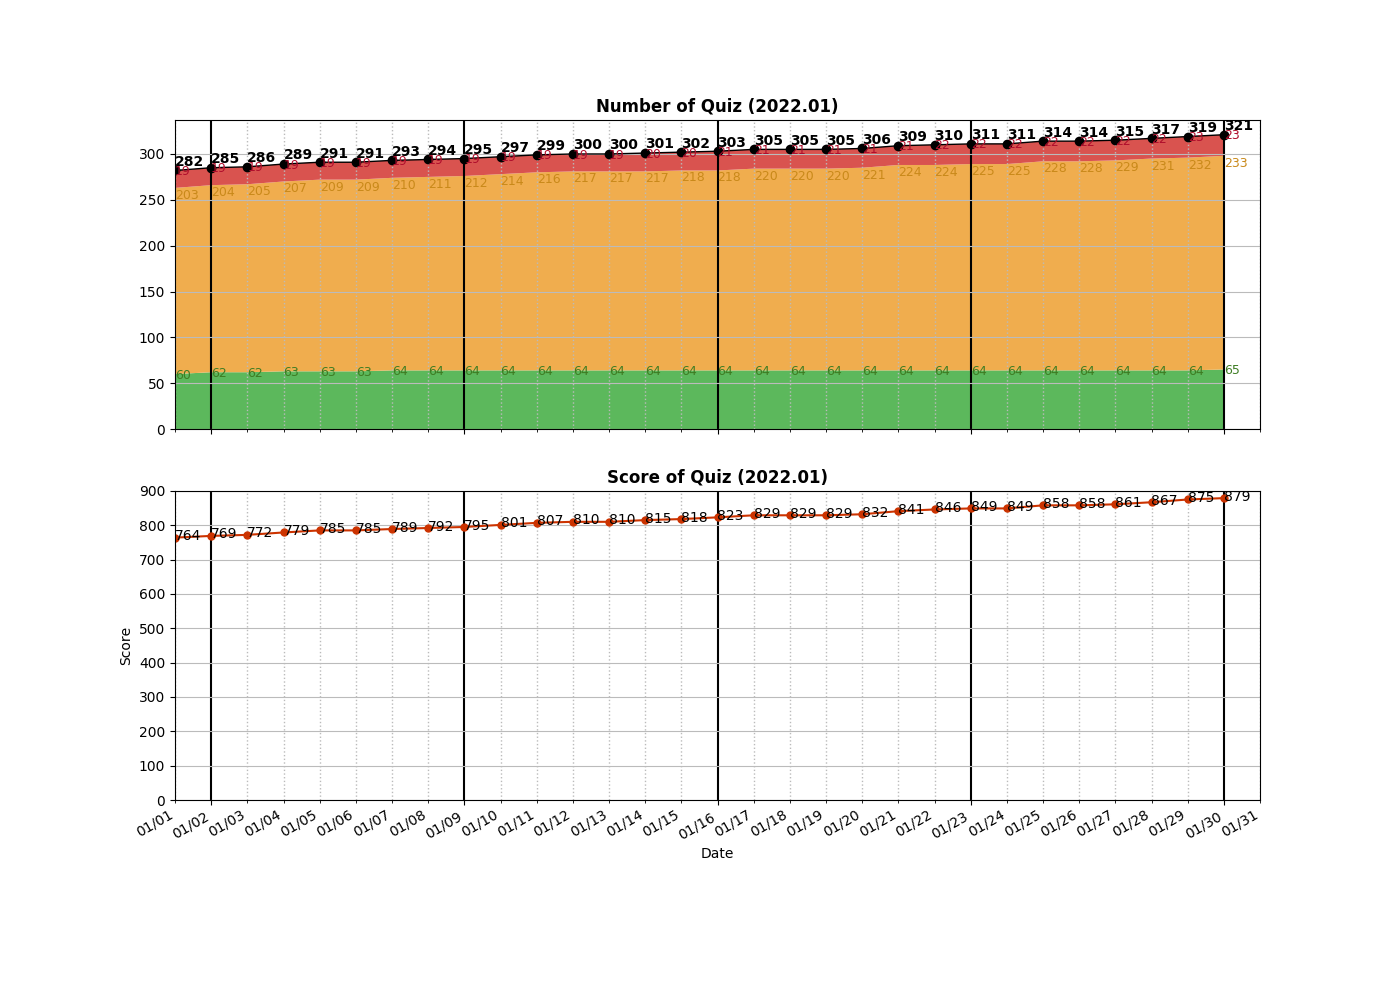
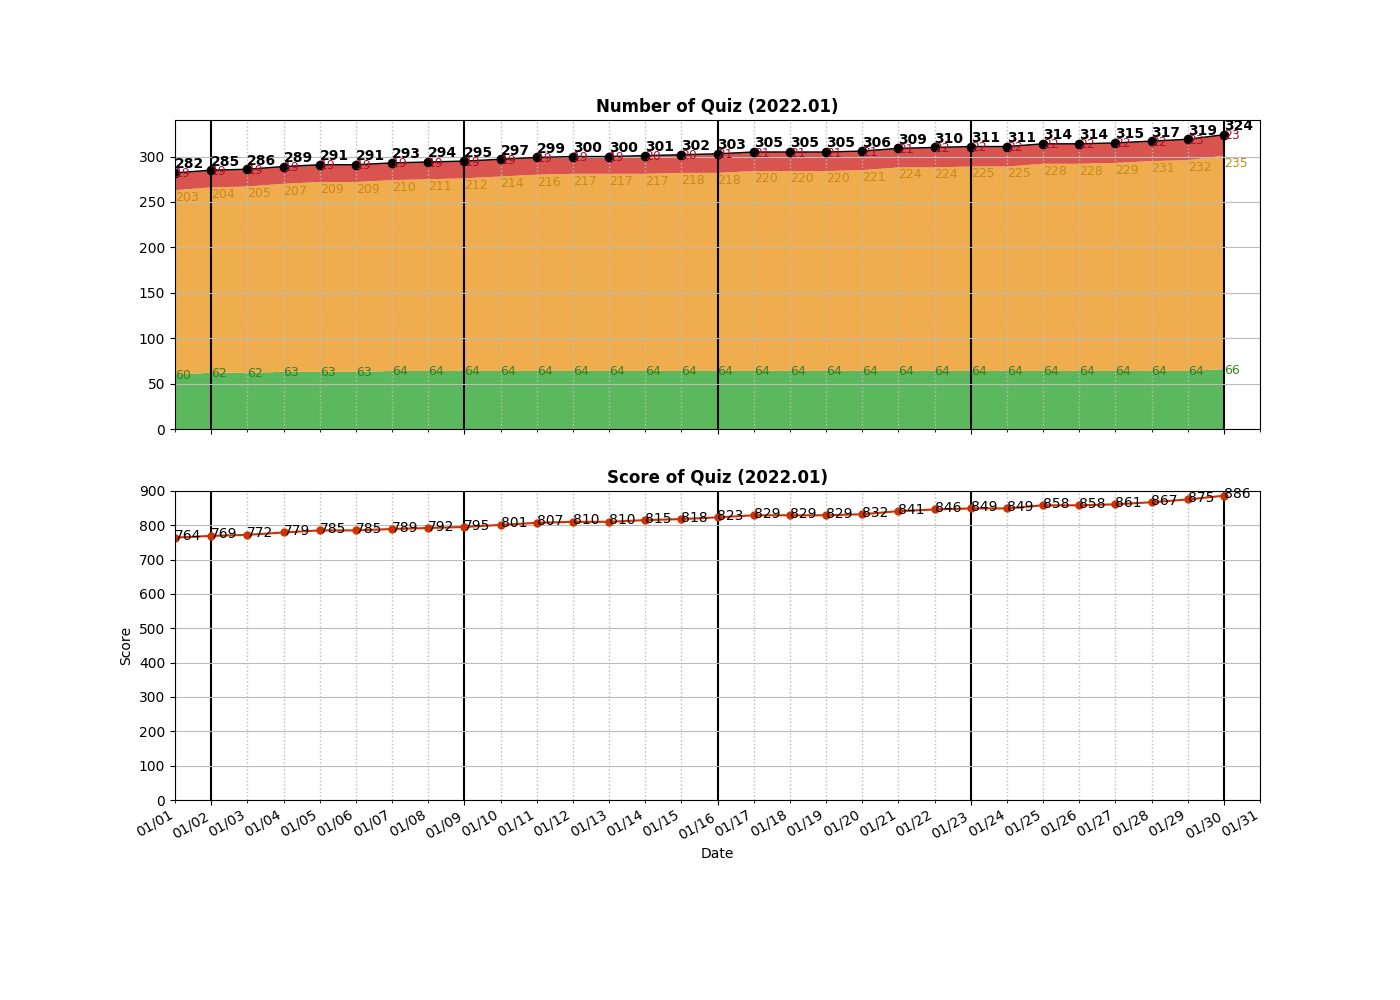
Added __0187__Repeated DNA Sequences.py

Changed region(s): [[0.0921, 0.124, 0.8907, 0.217], [0.86, 0.496, 0.8907, 0.527]]

diff --git a/algo/HashMap/__0187__Repeated DNA Sequences.py b/algo/HashMap/__0187__Repeated DNA Sequences.py
@@ -1,0 +1,17 @@
+class Solution:
+    
+    # 2022/01/30
+    # HashMap to count [O((N-L)L): 5%]
+    def findRepeatedDnaSequences(self, s: str) -> List[str]:
+        if len(s) <= 10:
+            return []
+        
+        substringCount = collections.defaultdict(int)
+        for i in range(len(s) - 10 + 1):
+            substringCount[s[i:i+10]] += 1
+        
+        res = []
+        for sub, count in substringCount.items():
+            if count >= 2:
+                res.append(sub)
+        return res

diff --git a/README.md b/README.md
@@ -18,7 +18,8 @@ algo
 │   ├── __0560__Subarray Sum Equals K.py
 │   ├── __0670__Maximum Swap.py
 │   ├── __0760__Find Anagram Mappings.py
-│   └── __0986__Interval List Intersections.py
+│   ├── __0986__Interval List Intersections.py
+│   └── __2154__Keep Multiplying Found Values by Two.py
 ├── BFS
 │   ├── __0102__Binary Tree Level Order Traversal.py
 │   ├── __0103__Binary Tree Zigzag Level Order Traversal.py
@@ -163,6 +164,7 @@ algo
 ├── HashMap
 │   ├── __0001__Two Sum.py
 │   ├── __0049__Group Anagrams.py
+│   ├── __0187__Repeated DNA Sequences.py
 │   ├── __0249__Group Shifted Strings.py
 │   ├── __0287__Find the Duplicate Number.py
 │   ├── __0290__Word Pattern.py
@@ -341,7 +343,8 @@ algo
 │   ├── __1099__Two Sum Less Than K.py
 │   ├── __1214__Two Sum BSTs.py
 │   ├── __1248__Count Number of Nice Subarrays.py
-│   └── __1711__Count Good Meals.py
+│   ├── __1711__Count Good Meals.py
+│   └── __2155__All Divisions With the Highest Score of a Binary Array.py
 ├── UnionFind
 │   ├── DisjointSet.py
 │   ├── __0128__Longest Consecutive Sequence.py
@@ -360,7 +363,7 @@ algo
     ├── Countries.py
     └── SwitchingArray.py
 
-26 directories, 333 files
+26 directories, 336 files
 
 =====================================
 ============= Local Repo ============
@@ -476,6 +479,7 @@ __0161__One Edit Distance.py
 __0162__Find Peak Element.py
 __0167__Two Sum II - Input array is sorted.py
 __0173__Binary Search Tree Iterator.py
+__0187__Repeated DNA Sequences.py
 __0189__Rotate Array.py
 __0199__Binary Tree Right Side View.py
 __0200__Number of Islands.py
@@ -686,8 +690,10 @@ __1937__Maximum Number of Points with Cost.py
 __2007__Find Original Array From Doubled Array.py
 __2008__Maximum Earnings From Taxi.py
 __2093__Minimum Cost to Reach City With Discounts.py
+__2154__Keep Multiplying Found Values by Two.py
+__2155__All Divisions With the Highest Score of a Binary Array.py
 =====================================
-Num of Python Practice:  321
+Num of Python Practice:  324
 
 
 =====================================
@@ -804,6 +810,7 @@ Num of Python Practice:  321
  0162 Find Peak Element
  0167 Two Sum II - Input Array Is Sorted
  0173 Binary Search Tree Iterator
+ 0187 Repeated DNA Sequences
  0189 Rotate Array
  0199 Binary Tree Right Side View
  0200 Number of Islands
@@ -1014,12 +1021,14 @@ Num of Python Practice:  321
  2007 Find Original Array From Doubled Array
  2008 Maximum Earnings From Taxi
  2093 Minimum Cost to Reach City With Discounts
+ 2154 Keep Multiplying Found Values by Two
+ 2155 All Divisions With the Highest Score of a Binary Array
 =====================================
-Solved / Total (Easy)  :   65 /  543
-Solved / Total (Medium):  233 / 1149
-Solved / Total (Hard)  :   23 /  461
-Solved / Total (All)   :  321 / 2153
-Total Score            :  879
+Solved / Total (Easy)  :   66 /  544
+Solved / Total (Medium):  235 / 1151
+Solved / Total (Hard)  :   23 /  462
+Solved / Total (All)   :  324 / 2157
+Total Score            :  886
 =====================================
 
 ```
